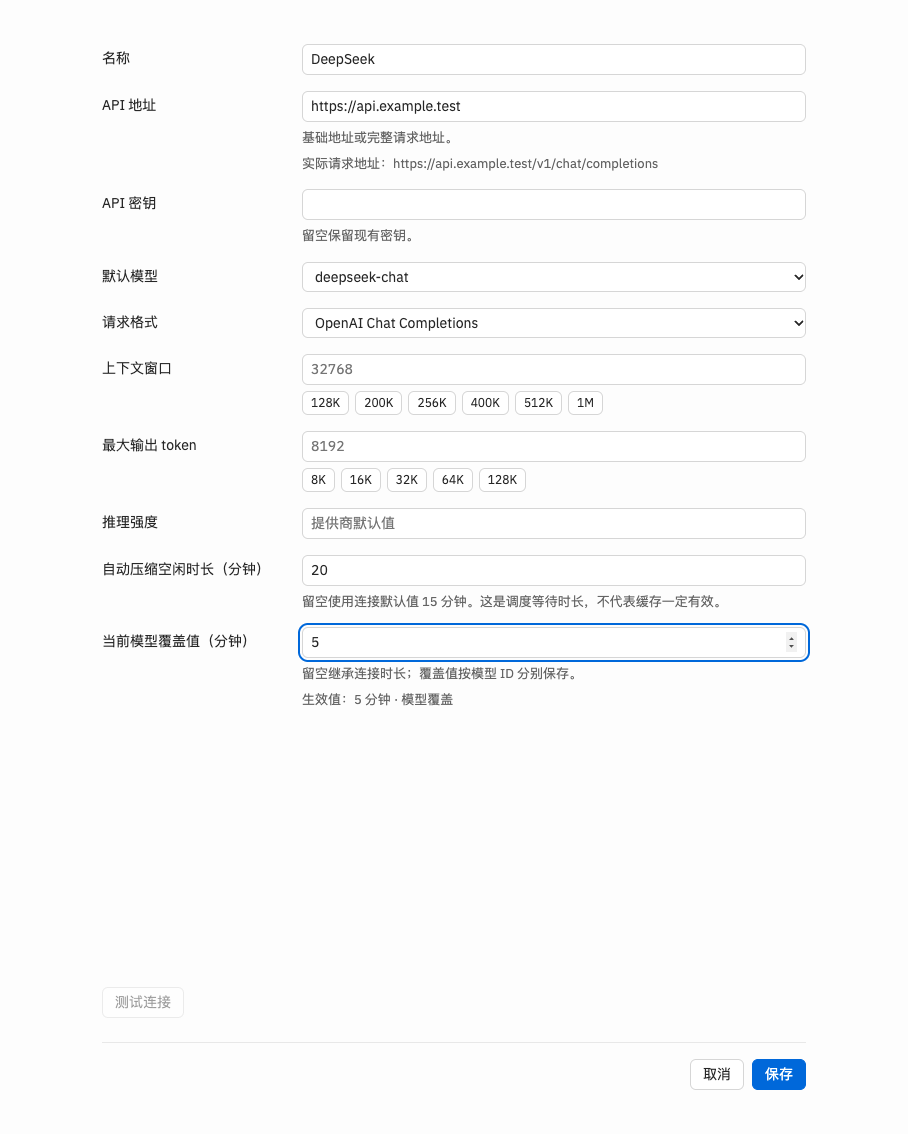
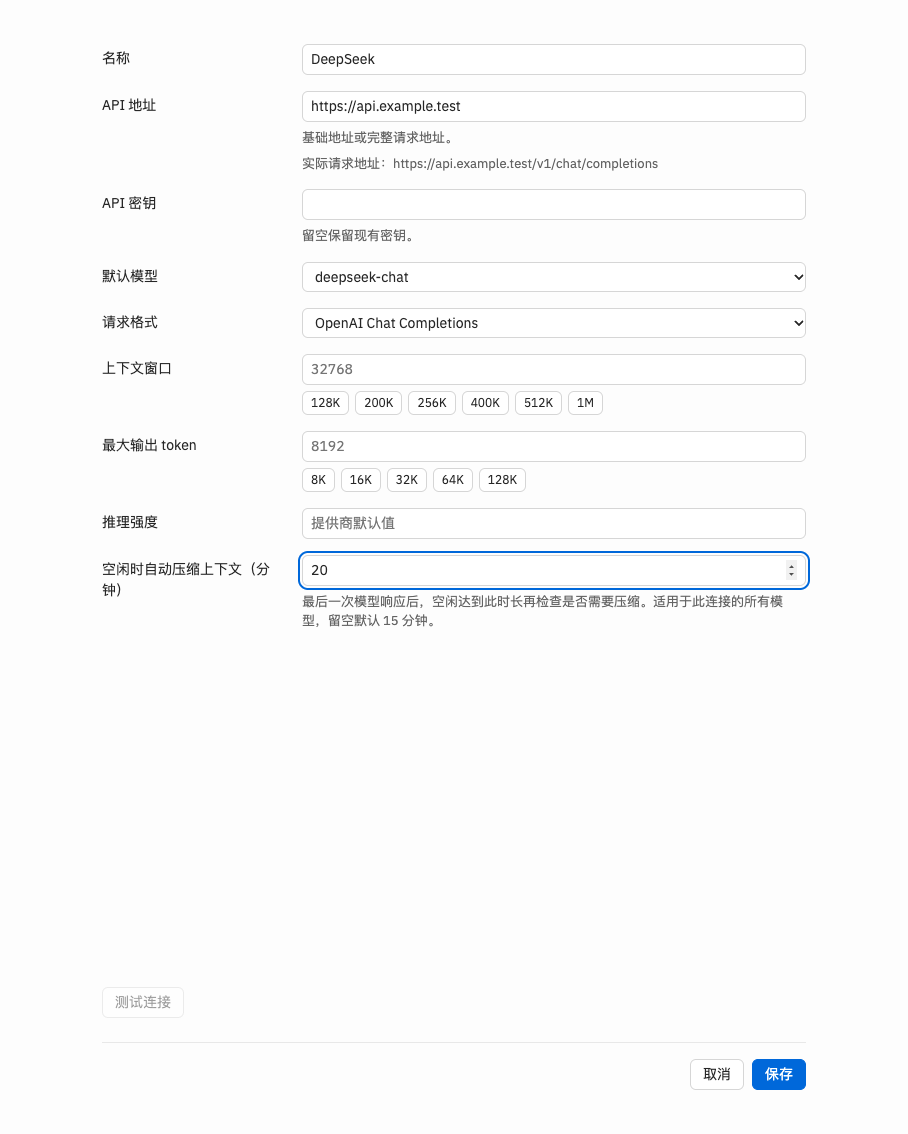
Simplify idle compaction settings and remove download actions

diff --git a/web/src/components/ui.js b/web/src/components/ui.js
@@ -719,7 +719,7 @@ export function mountApp(root, client, {surface = 'main'} = {}) {
     row.dataset.messageId=message.id;row.dataset.sequence=message.sequence||'';
     bubble.dataset.scrollAnchor=`message:${message.viewKey}`;
     if(message.compaction){
- if(!record.compact){const scope=client.scope();record.compact=createCompaction({locale:()=>locale,request:(path,options)=>client.request(path,options),scope:scope.owner,owner:scope});bubble.append(record.compact.element);}
+ if(!record.compact){record.compact=createCompaction({locale:()=>locale});bubble.append(record.compact.element);}
  record.compact.update(message);
  }else if(message.role==='tool'&&message.tool){
       const scope=client.scope?.()||{},key=JSON.stringify([scope.space,scope.owner,message.id]);

diff --git a/internal/control/idle_compaction_test.go b/internal/control/idle_compaction_test.go
@@ -76,17 +76,17 @@ func TestIdleCompactionCanonicalOutcomeGate(t *testing.T) {
 	}
 	check(true)
 }
-func TestIdleCompactionDelayConnectionAndModel(t *testing.T) {
+func TestIdleCompactionDelayConnection(t *testing.T) {
 	s := taskResourceService(t)
 	ctx := context.Background()
 	minutes := uint64(20)
 	s.Profiles.mu.Lock()
-	s.Profiles.state.Profiles = []core.Profile{{ID: "p", ModelSettings: &core.ModelSettings{IdleCompactMinutes: &minutes, IdleCompactModels: map[string]uint64{"fast": 5}}}}
+	s.Profiles.state.Profiles = []core.Profile{{ID: "p", ModelSettings: &core.ModelSettings{IdleCompactMinutes: &minutes}}, {ID: "default"}}
 	s.Profiles.mu.Unlock()
 	for _, tc := range []struct {
 		profile, model string
 		want           time.Duration
-	}{{"p", "fast", 5 * time.Minute}, {"p", "other", 20 * time.Minute}, {"removed", "fast", 0}} {
+	}{{"p", "fast", 20 * time.Minute}, {"p", "other", 20 * time.Minute}, {"default", "fast", 15 * time.Minute}, {"removed", "fast", 0}} {
 		got, err := s.idleCompactPolicy(ctx, core.Thread{Config: core.ResolvedSpec{SourceProfileID: tc.profile, Model: tc.model}})
 		if err != nil || got.Delay != tc.want {
 			t.Fatal(tc, got, err)

diff --git a/pkg/core/settings.go b/pkg/core/settings.go
@@ -117,8 +117,7 @@ type ToolPolicy struct {
 	Unattended          string `json:"unattended" required:"true"`
 }
 type ModelSettings struct {
-	IdleCompactMinutes *uint64           `json:"idle_compact_minutes,omitempty"`
-	IdleCompactModels  map[string]uint64 `json:"idle_compact_models,omitempty"`
+	IdleCompactMinutes *uint64 `json:"idle_compact_minutes,omitempty"`
 
 	CatalogProvider *string             `json:"catalog_provider"`
 	ContextWindow   *uint64             `json:"context_window"`
@@ -142,15 +141,6 @@ func (p Profile) Validate() error {
 		if value := p.ModelSettings.IdleCompactMinutes; value != nil && (*value == 0 || *value > 525600) {
 			return fmt.Errorf("invalid idle compact duration")
 		}
-		if len(p.ModelSettings.IdleCompactModels) > 10000 {
-			return fmt.Errorf("too many compact model overrides")
-		}
-		for model, value := range p.ModelSettings.IdleCompactModels {
-			if strings.TrimSpace(model) == "" || len(model) > 256 || value == 0 || value > 525600 {
-				return fmt.Errorf("invalid compact model override")
-			}
-		}
-
 		if len(p.ModelSettings.InputModalities) > 10000 {
 			return fmt.Errorf("too many model input descriptors")
 		}

diff --git a/pkg/storage/migrations/profile_compaction_test.go b/pkg/storage/migrations/profile_compaction_test.go
@@ -17,7 +17,8 @@ func TestProfileCompactionUpgradePreservesRoutesAndReceipts(t *testing.T) {
 	snapshot := value["snapshot"].(map[string]any)
 	profile := snapshot["profiles"].([]any)[0].(map[string]any)
 	settings := profile["model_settings"].(map[string]any)
-	if profile["auth_ref"] != "secret:reference" || settings["catalog_provider"] != "custom" || settings["input_modalities"] == nil || settings["idle_compact_models"] == nil {
+	_, hasIdleTiming := settings["idle_compact_minutes"]
+	if profile["auth_ref"] != "secret:reference" || settings["catalog_provider"] != "custom" || settings["input_modalities"] == nil || !hasIdleTiming {
 		t.Fatal(value)
 	}
 	receipt := value["requests"].(map[string]any)["receipt"].(map[string]any)

diff --git a/pkg/storage/migrations/profile_compaction.go b/pkg/storage/migrations/profile_compaction.go
@@ -5,7 +5,7 @@ import (
 	"errors"
 )
 
-// UpgradeProfileCompaction adopts connection/model idle timing intent. Route,
+// UpgradeProfileCompaction adopts connection idle timing intent. Route,
 // credentials, immutable execution snapshots and request receipts are retained.
 func UpgradeProfileCompaction(raw []byte) ([]byte, bool, error) {
 	var file map[string]json.RawMessage
@@ -32,7 +32,6 @@ func UpgradeProfileCompaction(raw []byte) ([]byte, bool, error) {
 			}
 		}
 		settings["idle_compact_minutes"] = json.RawMessage("null")
-		settings["idle_compact_models"] = json.RawMessage("{}")
 		body, err := json.Marshal(settings)
 		if err != nil {
 			return err

diff --git a/internal/control/idle_compaction.go b/internal/control/idle_compaction.go
@@ -21,10 +21,6 @@ func (s *Service) idleCompactPolicy(_ context.Context, thread core.Thread) (assi
 					minutes = *settings.IdleCompactMinutes
 					source = "connection"
 				}
-				if value, ok := settings.IdleCompactModels[thread.Config.Model]; ok {
-					minutes = value
-					source = "model"
-				}
 			}
 			return assistant.IdleCompactionPolicy{Delay: time.Duration(minutes) * time.Minute, Source: source}, nil
 		}

diff --git a/docs/token-usage.md b/docs/token-usage.md
@@ -139,7 +139,7 @@ turn retryable does not mark that request rejected or refund its allowance.
 Usage query/policy/recovery APIs require the main Runtime token; workers cannot read the global ledger or change policies. Internal compaction endpoints validate session authority.
 
 - `GET /api/v1/usage/summary?days=14&timezone=Asia/Shanghai&scope=`: empty scope = global; assistant ID (`main` for the default assistant) or task ID = session. Session totals ignore days; trends follow days. Returns totals, trend buckets, allowances and waiting state, without detail lists.
-- `GET /api/v1/usage/compaction-record?scope=OWNER_OR_TASK&id=OPERATION`: owner-scoped private JSON download. Includes trigger/configuration, timing, context fingerprints, original native request and response, before/after context and metered attempts. Unknown usage remains null; context estimates are distinct from billed usage. Records contain private conversation data and never authorization headers.
+- `GET /api/v1/usage/compaction-record?scope=OWNER_OR_TASK&id=OPERATION`: owner-scoped private diagnostic record for investigation. Includes trigger/configuration, timing, context fingerprints, original native request and response, before/after context and metered attempts. Unknown usage remains null; context estimates are distinct from billed usage. Records contain private conversation data and never authorization headers. Chat and usage pages show compaction status and token counts without a download action.
 - `GET /api/v1/usage/{models|requests|tools|compactions}?scope=OWNER&timezone=Asia/Shanghai&offset=0`: returns `{items, offset, next_offset}`. Each resource has independent 20-item pagination. Requests/tools/compactions require a session scope and use lifetime data. Models accept empty scope for global data and `days=14|30|90|365`; scoped models use lifetime data. A null next offset marks the end. Request/compaction timestamps use ascending ID as the tie-breaker; tools use ascending name after descending call count.
 - Compaction lifecycle enters the local coordinator through injected execution services; Workers cannot read global usage or change policies.
 - `POST /api/v1/usage/policy`: `{period: none|day|week, limit, timezone, auto_resume}`.

diff --git a/docs/agent-context.md b/docs/agent-context.md
@@ -138,7 +138,7 @@ resume:  [stable system | tools | current runtime | summary | last user batch]
 ```
 
 Window pressure reserves space for the full appended instruction and summary
-output. Idle maintenance checks at the connection/model configured delay (15
+output. Idle maintenance checks at the connection's configured delay (15
 minutes by default, never early), with context above 30%. It requires settled
 current work, no queued user input and no completed-but-unprocessed Task results.
 Unfinished background Tasks do not block it. The canonical Task completion writer
@@ -181,8 +181,9 @@ builds a smaller cache. Actual provider usage determines cache hits.
 
 The transcript exposes a foldable compact operation, not a synthetic tool call.
 It includes trigger, status, elapsed time and estimated before/after size. Its
-private downloadable JSON record contains request/response evidence and links to
-the actual metered attempts; usage is never added twice.
+private diagnostic record retains request/response evidence and links to the
+actual metered attempts for investigation; usage is never added twice. Chat and
+usage pages do not expose a download action.
 
 ## Assistant tools
 

diff --git a/docs/model-directory.md b/docs/model-directory.md
@@ -167,11 +167,9 @@ not existing assistant intent.
 ## Idle compaction timing
 
 A saved connection's `model_settings.idle_compact_minutes` sets its positive idle
-maintenance delay in minutes (blank inherits 15). `idle_compact_models` maps exact
-model IDs to positive overrides; missing entries inherit the connection delay.
-Values range from 1 to 525,600 minutes. The provider editor shows the effective
-value and whether it comes from the model, connection or default. Connections
-with the same model name retain independent timing. Changes apply to unstarted
+maintenance delay in minutes (blank inherits 15). The provider editor has one
+timing field shared by all models on that connection, ranging from 1 to 525,600
+minutes. Separate connections retain independent timing. Changes apply to unstarted
 timers using the original last-model-completion time. Already running requests
 use their captured execution settings. Provider cache TTL is advisory, not a
 scheduling guarantee; the delay never silently subtracts a safety margin.
